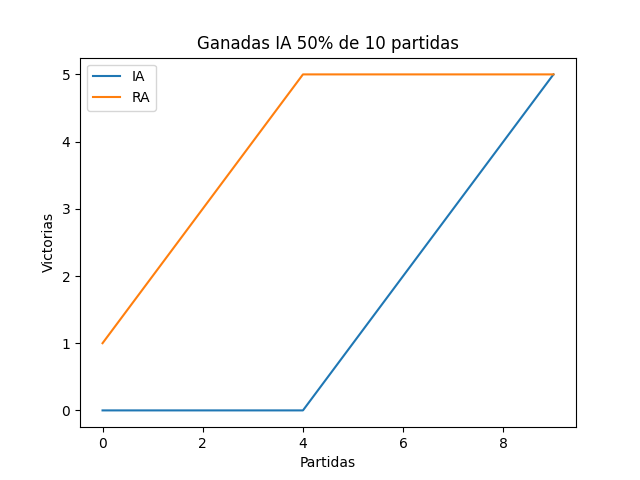
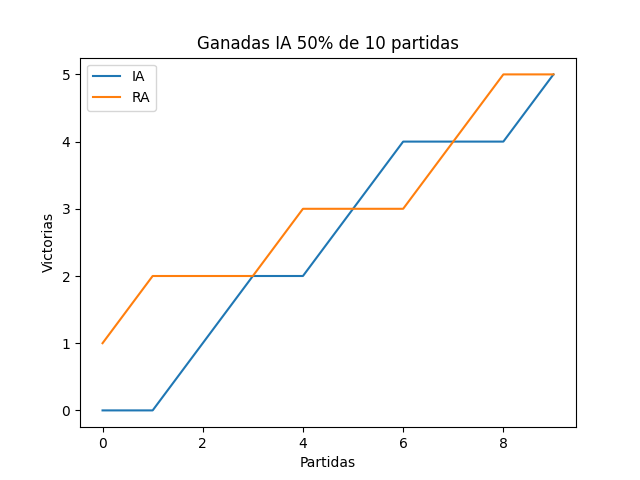
Haciendo el readme.md y cambio en el bucle del juego: ahora si un Almirante toca un barco este repite tiro

diff --git a/hundir_la_flota_con_clases.py b/hundir_la_flota_con_clases.py
@@ -145,24 +145,6 @@ def jugar(ganadas_RA:list, ganadas_IA:list, display=False):
     global ganadas_IA_contador, ganadas_RA_contador
 
     while (True):
-        # Elegir una coordenada para disparar
-        if turno == 1:
-            fila, columna = yo.elegir_coordenada_IA()
-            resultado_del_disparo = enemigo.recibir_disparo(fila, columna)
-
-        if turno == 2:
-            fila, columna = enemigo.elegir_coordenada_aleatoria()
-            resultado_del_disparo = yo.recibir_disparo(fila, columna)
-    
-        # Actualizar mapa con (Tocado, Hundido y Agua)
-        if turno == 1:
-            yo.actualizar_tras_disparo(resultado_del_disparo, fila, columna)
-        if turno == 2:
-            enemigo.actualizar_tras_disparo(resultado_del_disparo, fila, columna) 
-
-        if display:
-            # Impresión de los tableros
-            yo.imprimir_tableros()      
 
         # Combrobar si hay ganador, 20 gana
         if turno == 1:
@@ -181,6 +163,32 @@ def jugar(ganadas_RA:list, ganadas_IA:list, display=False):
                 ganadas_RA.append(ganadas_RA_contador)
                 ganadas_IA.append(ganadas_IA_contador)
                 break
+
+        # Elegir una coordenada para disparar
+        if turno == 1:
+            fila, columna = yo.elegir_coordenada_IA()
+            resultado_del_disparo = enemigo.recibir_disparo(fila, columna)
+
+        if turno == 2:
+            fila, columna = enemigo.elegir_coordenada_aleatoria()
+            resultado_del_disparo = yo.recibir_disparo(fila, columna)
+    
+        # Actualizar mapa con (Tocado, Hundido y Agua)
+        if turno == 1:
+            yo.actualizar_tras_disparo(resultado_del_disparo, fila, columna)
+            # Si tocamos un barco seguimos disparando
+            if resultado_del_disparo == "T":
+                continue
+
+        if turno == 2:
+            enemigo.actualizar_tras_disparo(resultado_del_disparo, fila, columna)
+            # Si tocamos un barco seguimos disparando
+            if resultado_del_disparo == "T":
+                continue
+
+        if display:
+            # Impresión de los tableros
+            yo.imprimir_tableros()      
 
         # Cambio de turno    
         if turno == 1:
@@ -225,7 +233,7 @@ def main():
     ganadas_RA_contador = 0
     ganadas_RA = []
     ganadas_IA = []
-    n_juegos = 100
+    n_juegos = 10
     display  = False
 
     for _ in range(0, n_juegos):

diff --git a/tests/graf.py b/tests/graf.py
@@ -1,0 +1,23 @@
+import pydot
+
+# Crea una instancia de un grafo dirigido
+graph = pydot.Dot(graph_type='digraph')
+
+# Agrega nodos al grafo
+input_node = pydot.Node("Input")
+hidden_node = pydot.Node("Hidden", style="filled", fillcolor="lightblue")
+output_node = pydot.Node("Output")
+
+graph.add_node(input_node)
+graph.add_node(hidden_node)
+graph.add_node(output_node)
+
+# Agrega conexiones entre los nodos
+graph.add_edge(pydot.Edge(input_node, hidden_node))
+graph.add_edge(pydot.Edge(hidden_node, output_node))
+
+# Genera la imagen del grafo
+graph.write_png('test.png')
+
+
+

diff --git a/README.md b/README.md
@@ -1,4 +1,62 @@
-# SISTEMAS INFORMÁTICOS 1º DAW
-## PRÁCTICA HUNDIR LA FLOTA MULTIPLAYER
+# Hundir la flota (IA)
 
-Hemos leido el código (para refrescar la lógica) y implementado el testing de la funcion comprobarPosicion
+Este proyecto se basa en la creación de un juego de "Hundir la flota" que se juega de manera automatica con la característica de que el disparo (las coordenadas donde el jugador cree que está el barco enemigo) sean predichas por una red neuronal.
+
+## Problema
+
+Obviando la creación del juego base, tenemos el siguiente problema:
+Necesitamos crear una red neuronal que decida donde deberíamos disparar en base a una entrada (input). La capas ocultas que tendra la red y la forma de la capa de salida que nos diga donde quiere disparar la red (el output de la red).
+
+## Solución planteada
+
+Para afrontar el problema la estructura de la red que he pensado es esta:
+
+![This is an image](resources/red_img.png)
+
+Con esta estructura lo que hacemos es dar como input a la red el tablero enemigo, que guarda la información que ya sabemos sobre las posiciones de barcos enemigos y como output tenemos otro "tablero" conformado por otras 100 neuronas de las cuales elegiremos la que más se active como coordenada deseada.
+
+Aclarar que aunque en la ilustración las capas de entra/salida tienen la forma del tablero 10x10 en realidad tanto la capa de entrada como la de salida son 100 neuronas en fila, solo las represento así para que sea más visual.
+
+Notar que no he representado la forma de las capas ocultas en la ilustración ya que para la generación de la red he usado el algoritmo [NEAT](https://neat-python.readthedocs.io/en/latest/neat_overview.html), lo que hace que no tenga mucho sentido dibujar la estructura oculta si de un entrenamiento a otro las capas ocultas pueden cambiar.
+
+## Prueba de la solucíon
+
+Ahora que tenemos la red para probar es hora de entrenarla, no lo he mencionado antes pero esta red sera entrenada mediante entrenamiento de refuerzo, lo que haremos sera ponerla a jugar para que consiga recompensas cuando hacierte a un barco o castigos cuando dispare al agua/repita disparo a una posición ya usada. Y asi lograr que encuentre la manera más optima para jugar, aunque ya os adelanto que en un juego tan limitado en acciones como este, junto a su gran componente de aleatoriedad no se le sacara todo el partido a nuestra red.
+
+La podremos entrenar mediante el archivo ``entrenador.ipynb`` que es un jupyter Notebook.
+
+Adicionalmente podemos cambiar una gran cantidad de los parametros de entrenamiento de nuestra red tales como: la función de activacion, el numero de individuos de cada población o el número de capas ocultas, junto a otros muchas más cosas en el archivo ``config-feedforward.txt``
+
+## Resultados
+
+Habiendo entrenado a 50 individuos en 200 generaciones estos son los resultados:
+
+###### IA: La red entrenada
+
+###### RA: Disparo aleatorio
+
+![This is an image](resultado_de_partidas/10_partidas/0.png)
+
+![This is an image](resultado_de_partidas/100_partidas/0.png)
+
+![This is an image](resultado_de_partidas/1000_partidas/0.png)
+
+![This is an image](resultado_de_partidas/10_000-partidas.png)
+
+Con las graficas se puede ver de una manera visual la efectividad de nuestra red, que aunque en pequeñas muestras es practicamente aleatoria a medida que se aumenta el número de muestras se estaviliza. Pero solo con una mejora del 6% frente al juego aleatorio.
+
+Aunque cabe destacar que mientras hacia las graficas me di cuenta de que el archivo que ejecuta las pruebas ``hundir_la_flota_con_clases.py`` se salta una regla importante del juego original y es que: cuando haciertas en el juego original puedes seguir disparando hasta que falles, cosa que aqui no se contempla y no importa, el turno siempre cambia.
+
+Esto seguramente haga que las estadisticas de la red pueda mejorar frente al rival aleatorio, pero como el punto de este repositorio no es conseguir la red más eficiente si no un "hundir la flota" que se juegue automatico haciendo uso de redes neuronales y asi hacer que yo no tenga que trabajar con malvados indices😨. Pues sera una cosa que tenga en cuenta para mis proximos proyectos y asi ver la mejora😁.
+
+Requisitos del sistema: Si el proyecto requiere ciertos requisitos del sistema para funcionar correctamente, como una versión específica del lenguaje de programación o un sistema operativo en particular, asegúrese de incluir esa información.
+
+Instalación: Proporcione instrucciones detalladas para instalar y configurar el proyecto en un ambiente de desarrollo. Es recomendable incluir comandos de terminal necesarios para instalar cualquier dependencia y cualquier otra configuración requerida.
+
+Uso: Proporcione instrucciones claras sobre cómo utilizar el proyecto. Si el proyecto tiene una interfaz de usuario, proporcione capturas de pantalla y / o vídeos de demostración.
+
+Contribución: Si está permitido, indique cómo la comunidad puede contribuir al proyecto. Incluya información sobre cómo presentar solicitudes de cambio y cómo colaborar en el desarrollo del proyecto.
+
+Licencia: Proporcione información sobre la licencia del proyecto y cómo se puede utilizar el código.
+
+Enlaces: Proporcione enlaces a documentación adicional, recursos útiles o cualquier otro enlace relevante relacionado con el proyecto.
